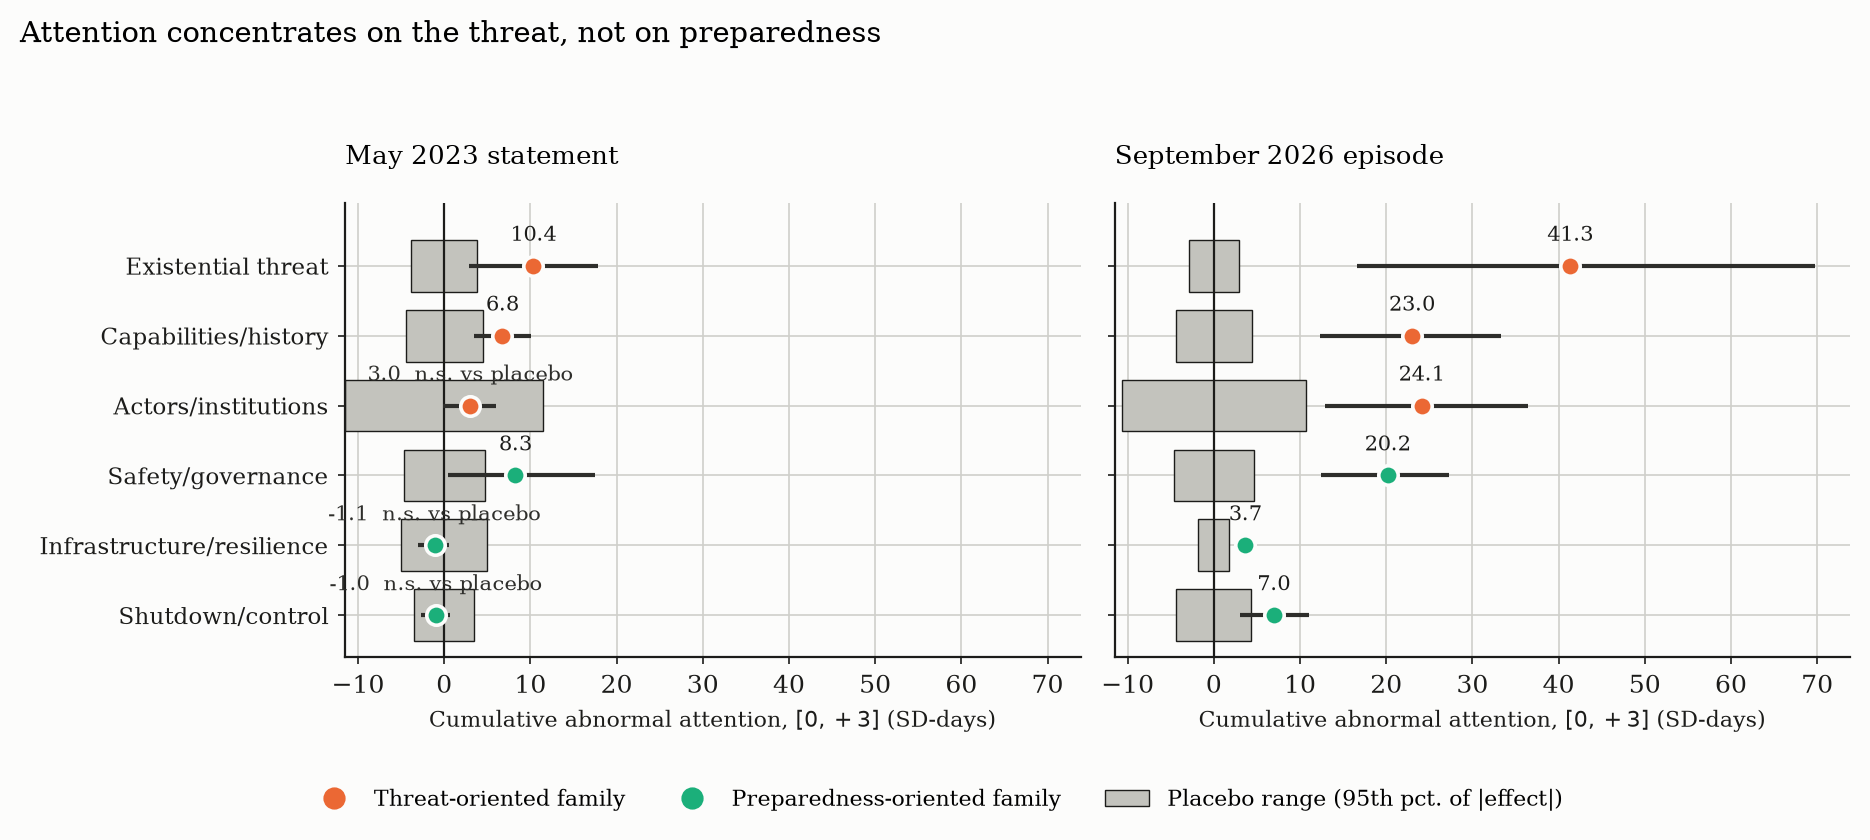
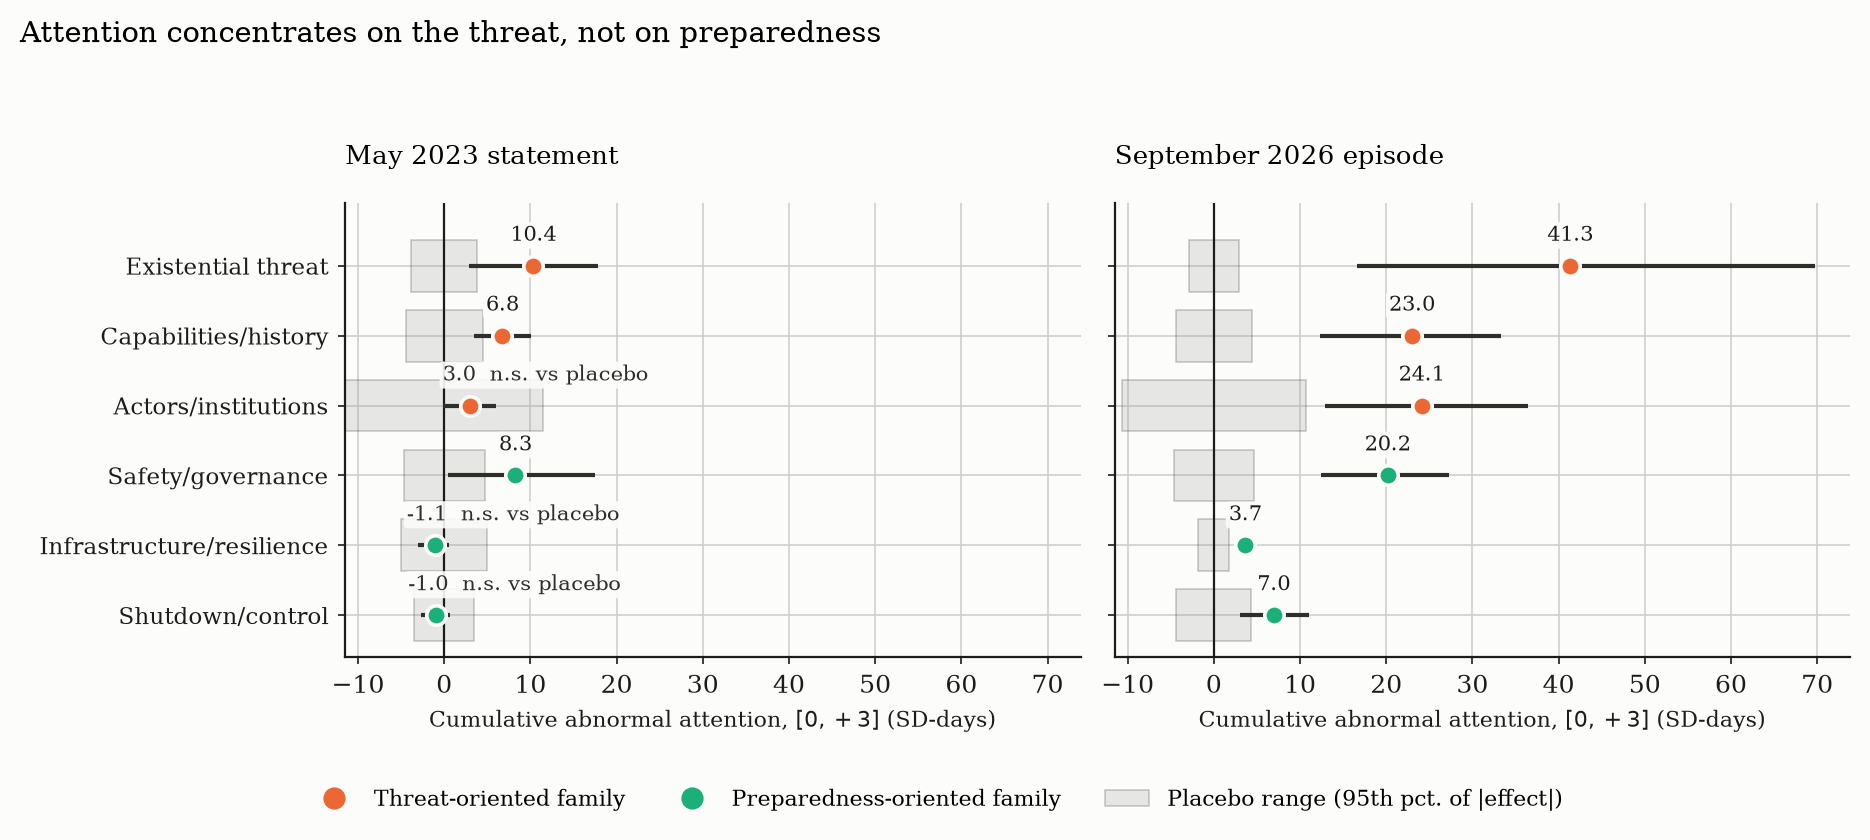
Gap figure: translucent placebo band, legible estimate labels
The placebo range is context, not data: draw it as a light translucent
fill with a thin outline, back each estimate label with the surface
colour, and left-anchor the long 'n.s. vs placebo' labels so they no
longer run past the left axis on the 2023 panel.

Changed region(s): [[0.1861, 0.2786, 0.3412, 0.7738], [0.5893, 0.2786, 0.7134, 0.7738], [0.5893, 0.9286, 0.6203, 0.9595]]

diff --git a/reproducibility/Extinction/src/build_outputs.py b/reproducibility/Extinction/src/build_outputs.py
@@ -48,7 +48,7 @@ INK_2 = "#1c1c1a"      # labels, ticks, zero lines
 MUTED = "#2e2e2b"      # comparison series, interval bars, notes
 SURFACE = "#fcfcfb"
 GRID = "#cfcfca"       # gridlines only
-BAND = "#c3c3bd"       # placebo range fill
+BAND = "#9a9a94"       # placebo range fill, drawn translucent
 
 FAMILY_ORDER = ["threat", "capabilities", "actors", "safety", "infrastructure", "control"]
 FAMILY_LABEL = {
@@ -179,8 +179,11 @@ def figure_gap(att: dict) -> Path:
             y = ypos[fam]
             band = placebo.get(fam, {}).get("p95_abs")
             if band:
+                # Light, translucent fill with a crisp outline: the band is
+                # context, and the estimate labels must stay legible over it.
                 ax.barh(y, 2 * band, left=-band, height=0.74,
-                        color=BAND, edgecolor=INK_2, linewidth=0.5, zorder=1)
+                        facecolor=BAND, alpha=0.22, edgecolor=INK_2,
+                        linewidth=0.6, zorder=1)
             prep = fam in ("safety", "infrastructure", "control")
             colour = SERIES[2] if prep else SERIES[1]
             ax.plot([s["ci_low"], s["ci_high"]], [y, y], color=MUTED,
@@ -188,10 +191,15 @@ def figure_gap(att: dict) -> Path:
             ax.plot([s["estimate"]], [y], "o", ms=7, color=colour,
                     mec=SURFACE, mew=1.3, zorder=4)
             inside = band is not None and abs(s["estimate"]) <= band
+            # Long "n.s." labels run rightward into open space instead of
+            # being centred, which would push them past the left axis.
             ax.annotate(f"{s['estimate']:.1f}" + ("  n.s. vs placebo" if inside else ""),
                         (s["estimate"], y), textcoords="offset points",
-                        xytext=(0, 9), ha="center", fontsize=7.4,
-                        color=INK_2 if not inside else MUTED)
+                        xytext=(-10, 9) if inside else (0, 9),
+                        ha="left" if inside else "center", fontsize=7.4,
+                        color=INK_2 if not inside else MUTED, zorder=5,
+                        bbox=dict(boxstyle="round,pad=0.15", facecolor=SURFACE,
+                                  edgecolor="none", alpha=0.9))
 
         ax.axvline(0, color=INK_2, lw=0.8, zorder=2)
         ax.set_yticks(list(ypos.values()))
@@ -208,7 +216,7 @@ def figure_gap(att: dict) -> Path:
                label="Threat-oriented family"),
         Line2D([], [], marker="o", ls="none", ms=7, color=SERIES[2],
                label="Preparedness-oriented family"),
-        Patch(facecolor=BAND, edgecolor=INK_2, linewidth=0.5,
+        Patch(facecolor=BAND, alpha=0.22, edgecolor=INK_2, linewidth=0.6,
               label="Placebo range (95th pct. of |effect|)"),
     ]
     fig.legend(handles=handles, loc="lower center", ncol=3, frameon=False,
